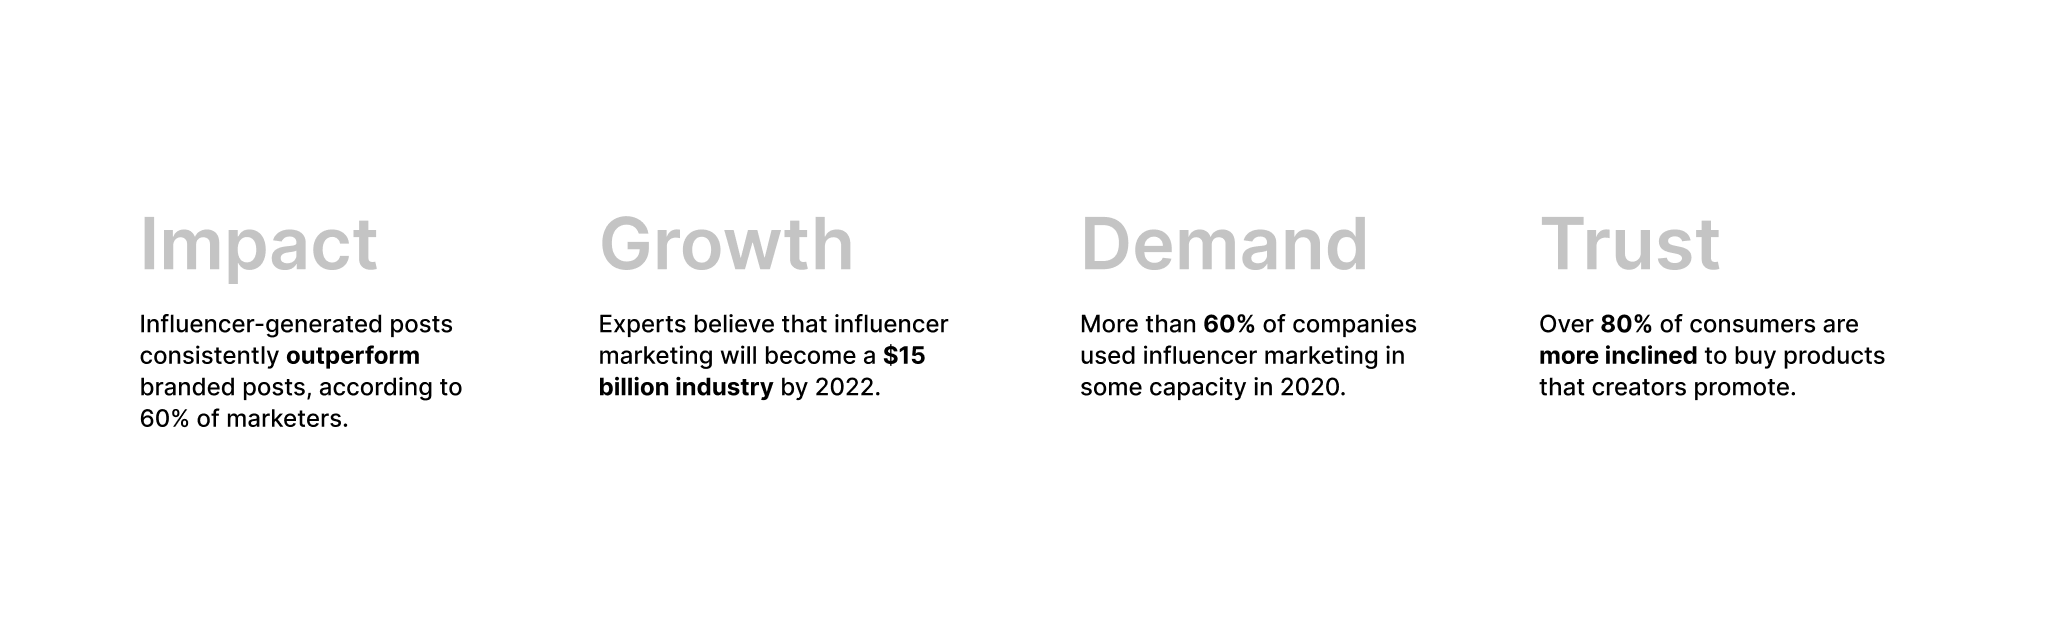
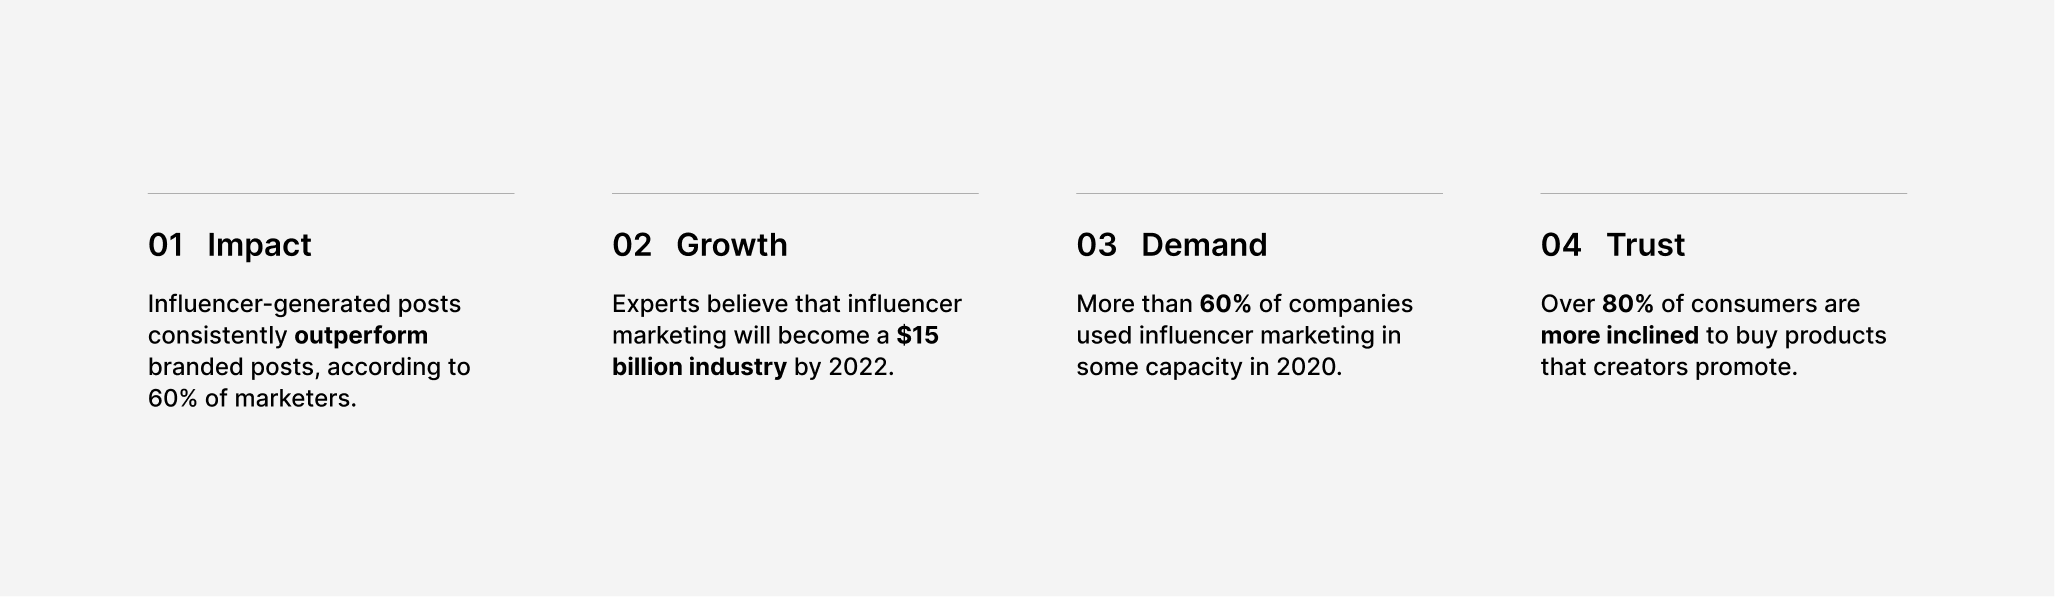
initial commit v2.2

diff --git a/pages/tapqr.js b/pages/tapqr.js
@@ -7,7 +7,7 @@ import Image from "next/image";
 import Tqrhero from "../public/images/One.png";
 import Tqrstats1 from "../public/images/tqr-stats1.png";
 import Tqrscreens from "../public/images/tqr-screens.png";
-import Tqrresearch1 from "../public/images/tqr-research1.png";
+import Tqrprinciples from "../public/images/tqr-principles.png";
 import Tqrresearch2 from "../public/images/tqr-research2.png";
 import Tqrideation from "../public/images/tqr-ideation.png";
 import Tqrflow1 from "../public/images/tqr-flow1.png";
@@ -86,7 +86,7 @@ export default function tapqr() {
          <p1 className="font-normal text-lg lg:text-xl text-left my-5 md:w-5/6 lg:w-4/6">
            As the project was assigned with a set idea and solution to some already known problems within influencer marketing today, minimal time was spent gathering relevant insights that would validate the idea from a product design point of view. These findings promptly revealed great potential of the product entering the market in which the influencer marketing industry was vastly growing with proven statistics.
          </p1>
-         <div>
+         <div className="my-5">
           <Image src={Tqrstats1} alt="stats-one" layout="responsive" objectFit="cover" priority="true"/>
          </div>
          <p1 className="font-normal text-lg lg:text-xl text-left my-5 md:w-5/6 lg:w-4/6">
@@ -97,7 +97,7 @@ export default function tapqr() {
            Moving forward, we conducted research that will drive ideation from a design approach, in terms of how the product may take form and function in the hands of our users.
          </p1>
          <p1 className="font-normal text-lg lg:text-xl text-left my-5 md:w-5/6 lg:w-4/6">
-           As we were building a product targeting social media users and human-generated content, it was critical to run a competitive analysis with many products serving a similar purpose to see what platforms are successfully used. Analysing and drawing inspiration from core elements within top ranking apps in the App Store, allowed us to envision a product that was new in functionality yet still familiar in usability.<br/><br/>While there are no competitors that directly serve the same intricate purpose as TapQR envisions, we were able to see the general landscape of where the product would live in accordance with content creation and QR code generation. <span><a href="https://www.canva.com/" target="_blank" rel="noopener noreferrer" className="cursor-pointer underline">Canva</a></span>, <span><a href="https://www.unfold.com/" target="_blank" rel="noopener noreferrer" className="cursor-pointer underline">Unfold</a></span> and <span><a href="https://www.picsart.com/" target="_blank" rel="noopener noreferrer" className="cursor-pointer underline">Picsart</a></span> to name a few are popularly used in content creation, with a prominent feature being the photo editor that focuses on quick and creative customization.<br/><br/>Additionally, we also looked at various QR code generators and decided to further analyse <span><a href="https://www.qr-code-generator.com/" target="_blank" rel="noopener noreferrer" className="cursor-pointer underline">QR Code Generator powered by Bitly</a></span> as there was an ease in performing the main tasks in simple creation and managing QR codes within a dashboard view. Rather than focusing on specific features in this competitive analysis, we wanted to gain insight on successful visual structures and main task flows.
+           As we were building a product for social media users, it was critical to run a competitive analysis on top ranking content creation apps in the App Store, allowing us to envision a product that was new in functionality yet still familiar in usability. While there are no competitors that directly serve the same intricate purpose as TapQR, we were able to see the general landscape of where the product would live in accordance with content creation and QR code generation. <span><a href="https://www.canva.com/" target="_blank" rel="noopener noreferrer" className="cursor-pointer underline">Canva</a></span>, <span><a href="https://www.unfold.com/" target="_blank" rel="noopener noreferrer" className="cursor-pointer underline">Unfold</a></span> and <span><a href="https://www.picsart.com/" target="_blank" rel="noopener noreferrer" className="cursor-pointer underline">Picsart</a></span> to name a few are popularly used in content creation, with a prominent feature being the photo editor that focuses on quick and creative customization.<br/><br/>Additionally, we also looked at various QR code generators and decided to further analyse <span><a href="https://www.qr-code-generator.com/" target="_blank" rel="noopener noreferrer" className="cursor-pointer underline">QR Code Generator powered by Bitly</a></span> as there was an ease in performing the main tasks in simple creation and managing QR codes within a dashboard view. Rather than focusing on specific features in this competitive analysis, we wanted to gain insight on successful visual structures and main task flows to inform our design decisions.
          </p1>
          <div>
           <Image src={Tqrscreens} alt="competitors" layout="responsive" objectFit="cover" priority="true"/>
@@ -107,9 +107,19 @@ export default function tapqr() {
            Knowing the foundations of blockchain technology and how a world of dApps emerged was a critical area of research in designing for Web3.
          </p1>
          <p1 className="font-normal text-lg lg:text-xl text-left my-5 md:w-5/6 lg:w-4/6">
-           As a sole designer on the team and being completely new to blockchain, crypto and Web3, learning more about this growing ecosystem was essential even before diving into ideation for design. Through relative research and experiencing Solana first-hand, it was truly fascinating in discovering what the technology holds for futures of the Internet.<br/><br/>During what felt like going down a rabbit hole, an amazing article was able to interrupt and enlighten a hefty thought process. In addition, analyzing current dApps was crucial, as we wanted to identify what users may deem complicated, and what was working well in terms of an overall experience.<br/><br/>Upon gaining a better understanding, gathering some HMWs allowed us to ideate on how we want the product to best serve our users:
+           As a sole designer on the team and being completely new to blockchain, crypto and Web3, learning more about this growing ecosystem was essential even before diving into ideation for design. Through relative research and experiencing Solana first-hand, it was truly fascinating in discovering what the technology holds for futures of the Internet.<br/><br/>During what felt like going down a rabbit hole, an amazing article was able to interrupt and enlighten a hefty thought process. In addition, analyzing current dApps was crucial, as we wanted to identify what users may deem complicated, and what was working well in terms of an overall experience. At a higher level, some key takeaways and principles in designing for Web3 are:
          </p1>
-         <div className="flex flex-row mt-5 mb-20 ">
+         <div className="my-5">
+          <Image src={Tqrprinciples} alt="principles" layout="responsive" objectFit="cover" priority="true"/>
+         </div>
+
+         <div className="my-5">
+          <Image src={Tqrresearch2} alt="research-two" layout="responsive" objectFit="cover" priority="true"/>
+         </div>
+         <p1 className="font-normal text-lg lg:text-xl text-left mb-5 md:w-5/6 lg:w-4/6">
+           Upon research, refining the product goals through determining HMWs allowed us to ideate on how to deliver an experience that will best serve our users:
+         </p1>
+         <div className="flex flex-row mt-5 mb-40 ">
          <div className="pr-4 lg:pr-6">
            <div className="h-full border-l-[10px] lg:border-l-[12px] border-lime-100 border-solid"></div>
          </div>
@@ -118,9 +128,6 @@ export default function tapqr() {
          </p1>
          </div>
              
-         <div className="mb-20">
-          <Image src={Tqrresearch2} alt="research-two" layout="responsive" objectFit="cover" priority="true"/>
-         </div>
          <p1 className="font-['Maison_Neue'] text-sm lg:text-base text-left mt-20 mb-2 md:w-5/6 lg:w-4/6">
            04 / IDEATION
          </p1>
@@ -128,7 +135,7 @@ export default function tapqr() {
            With greater insight, we began narrowing our focus to determine features that would deliver a clear value and purpose.
          </p1>
          <p1 className="font-normal text-lg lg:text-xl text-left my-5 md:w-5/6 lg:w-4/6">
-           Along with designing the process of stamping a post with QR codes, we also wanted to focus on the overall experience of what the product would provide. This encompasses an aspect of community in which users can freely view details of top performing TapQR along with their respective creators, as well as having access to collaborate with brands.<br/><br/>We also sketched out potential flows of how a user can easily stamp their content, and determined that following a familiar pattern used in social media content generators would be critical to overcome any learning curves. This allows users to experience a simple flow with a powerful outcome, in which the process can be seen as adding a commonly used “sticker” overlaid on a post, while simply entering a destination URL.
+           Along with designing the process of stamping a post with QR codes, we also wanted to focus on the overall experience of what the product would provide. This encompasses an aspect of community in which users can freely view details of top performing TapQR along with their respective creators, as well as having access to collaborate with brands.<br/><br/>Reflecting on research, I sketched out potential flows of how users can easily complete the main task, and determined that following a familiar pattern used in social media content generators would be most approachable. This allows users to experience a simple flow with a powerful outcome, in which the process can be seen as adding a commonly used “sticker” overlaid on a post, while simply entering a destination URL.
          </p1>
          <div className="mb-20">
           <Image src={Tqrideation} alt="ideation" layout="responsive" objectFit="cover" priority="true"/>
@@ -146,7 +153,7 @@ export default function tapqr() {
           <Image src={Tqrflow1} alt="flow-one" layout="responsive" objectFit="cover" priority="true"/>
          </div>
          <p1 className="font-normal text-lg lg:text-xl text-left my-5 md:w-5/6 lg:w-4/6">
-           While the onboarding flow focuses on simplicity and ease to get as many users on and going, the key flows for creating, editing and downloading a TapQR relies on familiarity, in which we aimed to minimize the learning curve in using this product. A step-by-step process that follows the commonalities of photo editors as well as QR code generators helped visualize key screens and an overall intuitive experience.<br/><br/>A significant task to overcome in this flow would be the process of confirming the transaction through their Phantom wallet. To minimize friction, it is left as a last task for completion, and has been treated in a familiar method of payment seen in ecommerce today, in which it is informative enough yet not overwhelming.
+           While the onboarding flow focuses on simplicity and ease to get as many users on and going, the flow for creating, editing and downloading a TapQR relies on familiarity, in which we aimed to minimize the learning curve in using this product. A step-by-step process that follows the commonalities of photo editors as well as QR code generators helped visualize key screens and an overall intuitive experience.<br/><br/>A significant area to overcome would be the process of confirming transactions through their Phantom wallet. To minimize friction, it is left as a last task for completion, and has been treated in a familiar method of payment seen in ecommerce today, in which it is informative enough yet not overwhelming.
          </p1>
          <div className="mt-5 mb-20">
           <Image src={Tqrflow2} alt="flow-two" layout="responsive" objectFit="cover" priority="true"/>
